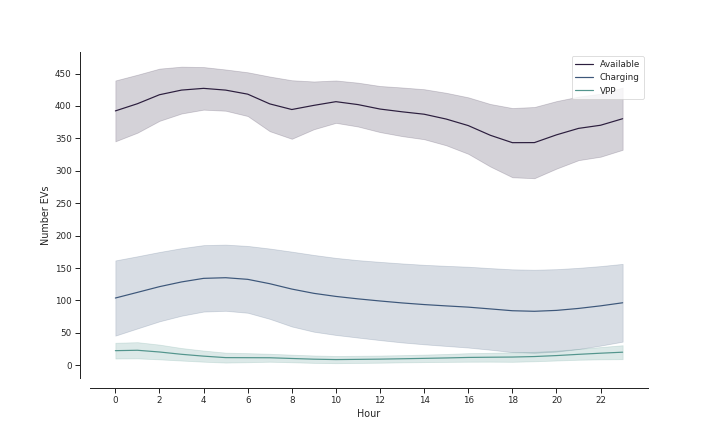
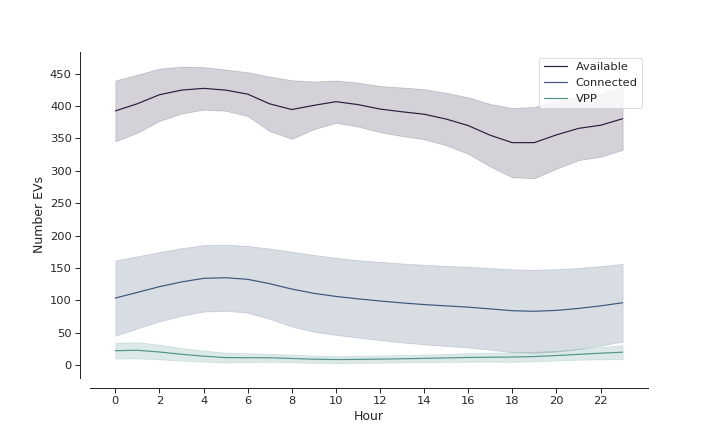
[nb/results] Update plot labels

diff --git a/notebooks/07-Results.py b/notebooks/07-Results.py
@@ -2,7 +2,7 @@
 # coding: utf-8
 
 # <h1>Table of Contents &lt;br&gt;&lt;/br&gt;<span class="tocSkip"></span></h1>
-# <div class="toc"><ul class="toc-item"><li><ul class="toc-item"><li><span><a href="#Imports-and-Data-loading" data-toc-modified-id="Imports-and-Data-loading-0.1"><span class="toc-item-num">0.1&nbsp;&nbsp;</span>Imports and Data loading</a></span></li></ul></li><li><span><a href="#Intraday" data-toc-modified-id="Intraday-1"><span class="toc-item-num">1&nbsp;&nbsp;</span>Intraday</a></span></li><li><span><a href="#Balancing" data-toc-modified-id="Balancing-2"><span class="toc-item-num">2&nbsp;&nbsp;</span>Balancing</a></span></li><li><span><a href="#Integrated" data-toc-modified-id="Integrated-3"><span class="toc-item-num">3&nbsp;&nbsp;</span>Integrated</a></span></li><li><span><a href="#Plots" data-toc-modified-id="Plots-4"><span class="toc-item-num">4&nbsp;&nbsp;</span>Plots</a></span><ul class="toc-item"><li><span><a href="#Style" data-toc-modified-id="Style-4.1"><span class="toc-item-num">4.1&nbsp;&nbsp;</span>Style</a></span></li><li><span><a href="#Fleet-Utilization" data-toc-modified-id="Fleet-Utilization-4.2"><span class="toc-item-num">4.2&nbsp;&nbsp;</span>Fleet Utilization</a></span></li></ul></li></ul></div>
+# <div class="toc"><ul class="toc-item"><li><ul class="toc-item"><li><span><a href="#Imports-and-Data-loading" data-toc-modified-id="Imports-and-Data-loading-0.1"><span class="toc-item-num">0.1&nbsp;&nbsp;</span>Imports and Data loading</a></span></li></ul></li><li><span><a href="#Intraday" data-toc-modified-id="Intraday-1"><span class="toc-item-num">1&nbsp;&nbsp;</span>Intraday</a></span><ul class="toc-item"><li><span><a href="#Benchmark" data-toc-modified-id="Benchmark-1.1"><span class="toc-item-num">1.1&nbsp;&nbsp;</span>Benchmark</a></span></li><li><span><a href="#Risk-Averse-(r=0.3,-acc=90)" data-toc-modified-id="Risk-Averse-(r=0.3,-acc=90)-1.2"><span class="toc-item-num">1.2&nbsp;&nbsp;</span>Risk Averse (r=0.3, acc=90)</a></span></li></ul></li><li><span><a href="#Balancing" data-toc-modified-id="Balancing-2"><span class="toc-item-num">2&nbsp;&nbsp;</span>Balancing</a></span><ul class="toc-item"><li><span><a href="#Benchmark" data-toc-modified-id="Benchmark-2.1"><span class="toc-item-num">2.1&nbsp;&nbsp;</span>Benchmark</a></span></li><li><span><a href="#Risk-Averse-(r=0.5,-acc=70)" data-toc-modified-id="Risk-Averse-(r=0.5,-acc=70)-2.2"><span class="toc-item-num">2.2&nbsp;&nbsp;</span>Risk Averse (r=0.5, acc=70)</a></span></li></ul></li><li><span><a href="#Integrated" data-toc-modified-id="Integrated-3"><span class="toc-item-num">3&nbsp;&nbsp;</span>Integrated</a></span></li><li><span><a href="#Plots" data-toc-modified-id="Plots-4"><span class="toc-item-num">4&nbsp;&nbsp;</span>Plots</a></span><ul class="toc-item"><li><span><a href="#Style" data-toc-modified-id="Style-4.1"><span class="toc-item-num">4.1&nbsp;&nbsp;</span>Style</a></span></li><li><span><a href="#Fleet-Utilization" data-toc-modified-id="Fleet-Utilization-4.2"><span class="toc-item-num">4.2&nbsp;&nbsp;</span>Fleet Utilization</a></span></li></ul></li></ul></div>
 
 # ## Imports and Data loading
 
@@ -47,6 +47,8 @@ def read_results(path):
 
 # # Intraday
 
+# ## Benchmark
+
 # In[13]:
 
 
@@ -54,7 +56,18 @@ df_i = read_results("../results/intraday-benchmark.csv")
 df_i.sum()/1000
 
 
+# ## Risk Averse (r=0.3, acc=90)
+
+# In[105]:
+
+
+df_i = read_results("../results/intraday-risk-averse.csv")
+df_i.sum()/1000
+
+
 # # Balancing
+
+# ## Benchmark
 
 # In[14]:
 
@@ -63,9 +76,18 @@ df_b = read_results("../results/balancing-benchmark.csv")
 df_b.sum()/1000
 
 
+# ## Risk Averse (r=0.5, acc=70)
+
+# In[106]:
+
+
+df_b = read_results("../results/balancing-risk-averse.csv")
+df_b.sum()/1000
+
+
 # # Integrated
 
-# In[15]:
+# In[107]:
 
 
 df_in = read_results("../results/integrated-benchmark.csv")
@@ -76,12 +98,12 @@ df_in.sum()/1000
 
 # ## Style
 
-# In[101]:
+# In[114]:
 
 
 sns.set(rc={'figure.figsize':(10,6)})
 
-sns.set_context("paper")
+sns.set_context("paper", font_scale=1.3)
 
 sns.set_style("white")
 sns.set_style("ticks")
@@ -95,7 +117,7 @@ sns.palplot(palette)
 
 # ## Fleet Utilization
 
-# In[102]:
+# In[115]:
 
 
 df_stats = read_results("../results/stats-baseline.csv")
@@ -104,9 +126,10 @@ df_stats.head()
 
 Y = ["available_evs", "charging_evs", "vpp_evs"]
 for y in Y:
-    label = y.split("_")[0].title()
-    label = label.upper() if label == "Vpp" else label
     ax = sns.lineplot(x="hour", y=y, ci="sd", data=df_stats, label=label)
+    
+def labels():
+    
     
     
 sns.despine(offset=10)
